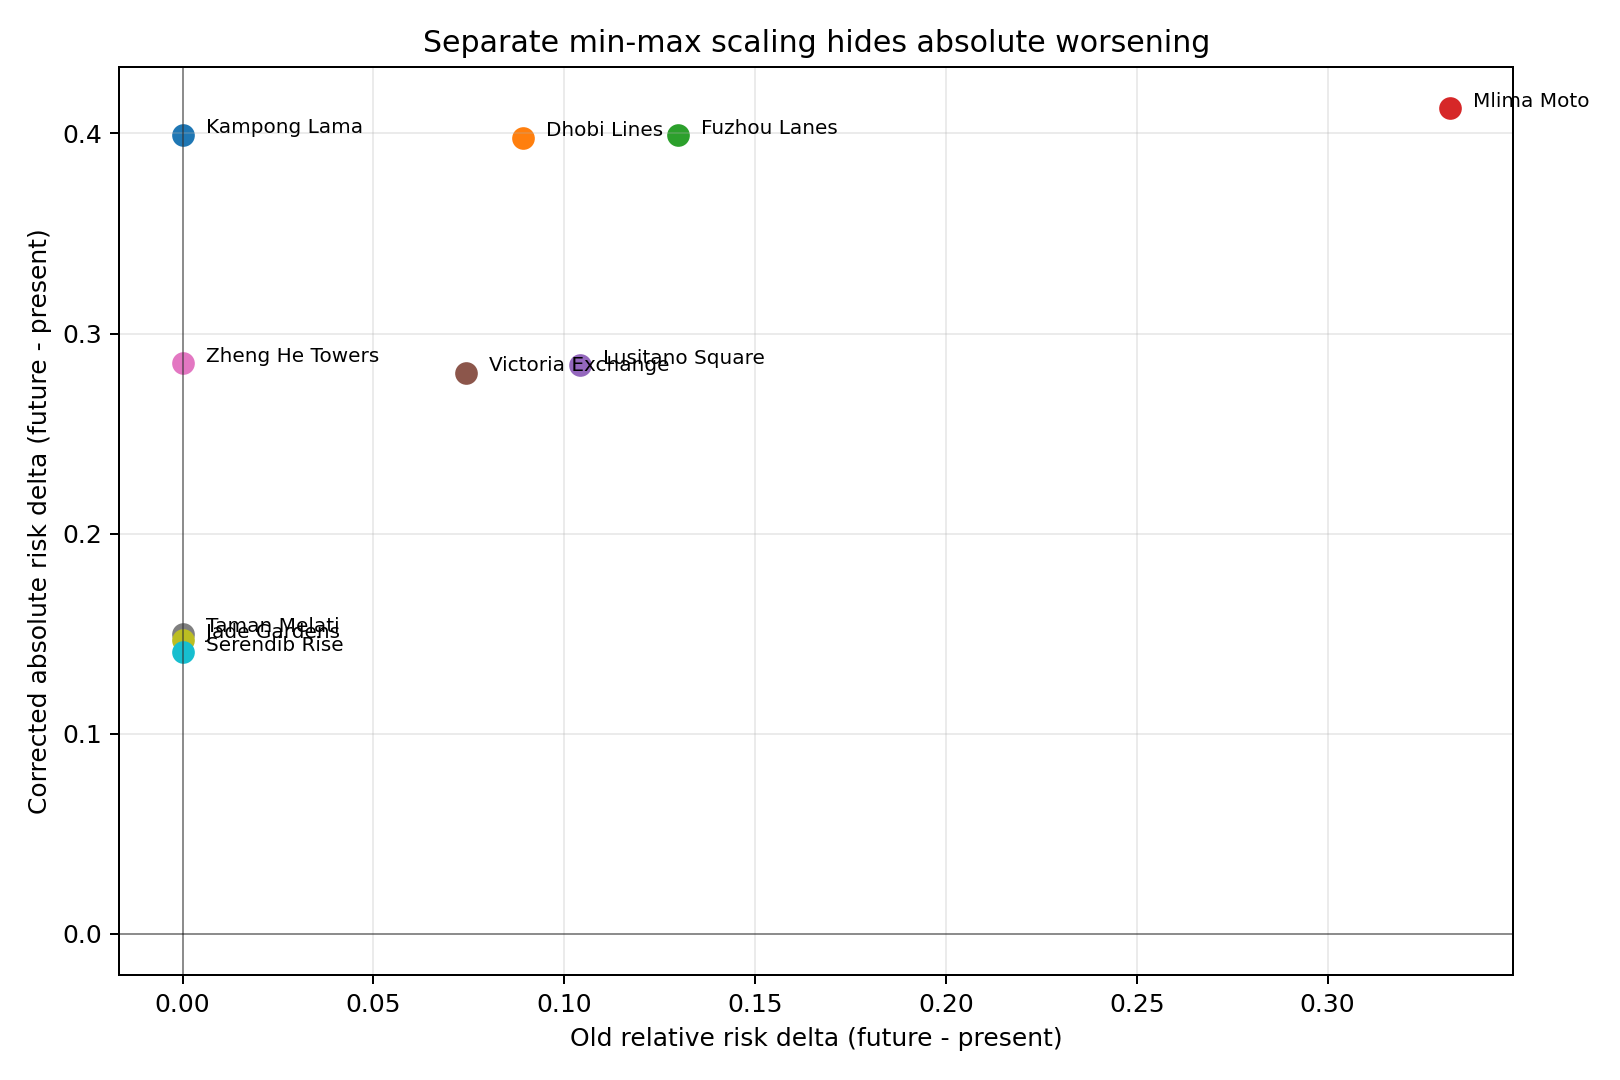
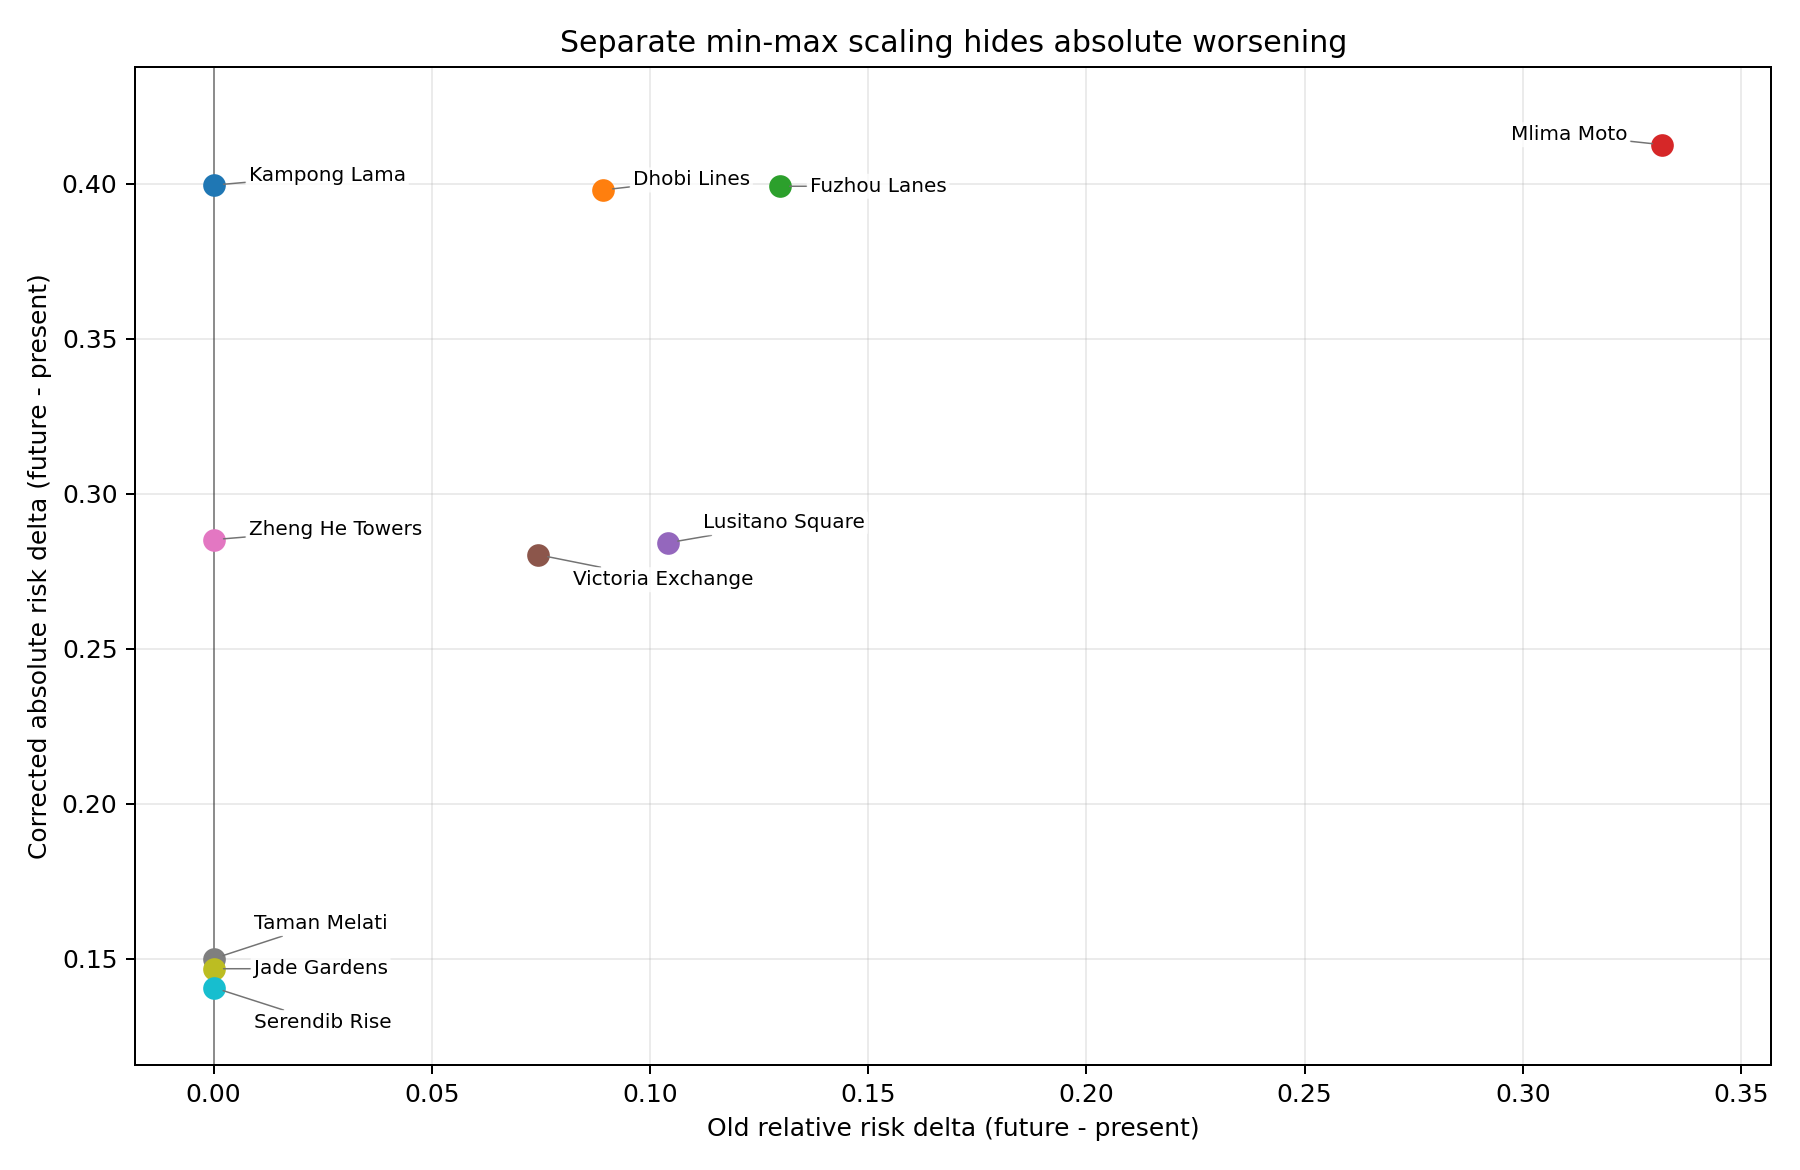
Improve hackathon Pages review story

diff --git a/analysis/uda_city_true_data/generate_corrected_indices.py b/analysis/uda_city_true_data/generate_corrected_indices.py
@@ -223,6 +223,70 @@ def save_barh(ax, labels: list[str], values: list[float], title: str, color: str
     ax.grid(axis="x", alpha=0.25)
 
 
+def plot_scenario_delta(wide: pd.DataFrame) -> None:
+    """Plot scenario deltas with deterministic label offsets for readability."""
+    PLOT_ROOT.mkdir(parents=True, exist_ok=True)
+    label_offsets = {
+        "Kampong Lama": (14, 4),
+        "Dhobi Lines": (12, 4),
+        "Fuzhou Lanes": (12, 0),
+        "Mlima Moto": (-14, 4),
+        "Lusitano Square": (14, 8),
+        "Victoria Exchange": (14, -10),
+        "Zheng He Towers": (14, 4),
+        "Taman Melati": (16, 14),
+        "Jade Gardens": (16, 0),
+        "Serendib Rise": (16, -14),
+    }
+
+    fig, ax = plt.subplots(figsize=(10, 6.5))
+    for _, row in wide.iterrows():
+        x = row["delta_old_risk_index"]
+        y = row["delta_corrected_risk_index"]
+        ax.scatter(x, y, s=65, zorder=3)
+        dx, dy = label_offsets.get(row["name"], (10, 4))
+        ax.annotate(
+            row["name"],
+            xy=(x, y),
+            xytext=(dx, dy),
+            textcoords="offset points",
+            fontsize=8,
+            ha="left" if dx >= 0 else "right",
+            va="center",
+            bbox={
+                "boxstyle": "round,pad=0.15",
+                "facecolor": "white",
+                "edgecolor": "none",
+                "alpha": 0.78,
+            },
+            arrowprops={
+                "arrowstyle": "-",
+                "color": "0.45",
+                "linewidth": 0.6,
+                "shrinkA": 0,
+                "shrinkB": 4,
+            },
+            zorder=4,
+        )
+    ax.axvline(0, color="black", linewidth=0.8, alpha=0.4)
+    ax.axhline(0, color="black", linewidth=0.8, alpha=0.4)
+    ax.set_xlim(
+        wide["delta_old_risk_index"].min() - 0.018,
+        wide["delta_old_risk_index"].max() + 0.025,
+    )
+    ax.set_ylim(
+        wide["delta_corrected_risk_index"].min() - 0.025,
+        wide["delta_corrected_risk_index"].max() + 0.025,
+    )
+    ax.set_xlabel("Old relative risk delta (future - present)")
+    ax.set_ylabel("Corrected absolute risk delta (future - present)")
+    ax.set_title("Separate min-max scaling hides absolute worsening")
+    ax.grid(alpha=0.25)
+    fig.tight_layout()
+    fig.savefig(PLOT_ROOT / "scenario_delta_old_vs_corrected.png", dpi=180)
+    plt.close(fig)
+
+
 def plot_outputs(long_df: pd.DataFrame, wide: pd.DataFrame) -> None:
     PLOT_ROOT.mkdir(parents=True, exist_ok=True)
     ordered = wide.sort_values("corrected_risk_rank_future")["name"].tolist()
@@ -266,24 +330,7 @@ def plot_outputs(long_df: pd.DataFrame, wide: pd.DataFrame) -> None:
     fig.savefig(PLOT_ROOT / "dry_vs_humid_heat_hours.png", dpi=180)
     plt.close(fig)
 
-    fig, ax = plt.subplots(figsize=(9, 6))
-    for _, row in wide.iterrows():
-        ax.scatter(row["delta_old_risk_index"], row["delta_corrected_risk_index"], s=65)
-        ax.text(
-            row["delta_old_risk_index"] + 0.006,
-            row["delta_corrected_risk_index"] + 0.0008,
-            row["name"],
-            fontsize=8,
-        )
-    ax.axvline(0, color="black", linewidth=0.8, alpha=0.4)
-    ax.axhline(0, color="black", linewidth=0.8, alpha=0.4)
-    ax.set_xlabel("Old relative risk delta (future - present)")
-    ax.set_ylabel("Corrected absolute risk delta (future - present)")
-    ax.set_title("Separate min-max scaling hides absolute worsening")
-    ax.grid(alpha=0.25)
-    fig.tight_layout()
-    fig.savefig(PLOT_ROOT / "scenario_delta_old_vs_corrected.png", dpi=180)
-    plt.close(fig)
+    plot_scenario_delta(wide)
 
     exposure = long_df[long_df["scenario"] == "present"][
         ["name", "population_day", "exposure_absolute"]

diff --git a/docs/index.md b/docs/index.md
@@ -6,26 +6,29 @@ alignment problems.
 
 Dataset: [UMEP-dev/uda-city-hackathon](https://github.com/UMEP-dev/uda-city-hackathon)
 
-## What was updated
+## Reviewer answer
 
-- Template notes were refreshed from `UMEP-dev/suews-hackathon-template`.
-- The released UDA-city data pack was added under `data/uda-city-hackathon/`.
-- Present and future SUEWS runs were completed for all 10 neighbourhoods.
-- The supplied reference bridge was run for present and future.
-- A corrected humid-heat risk index was generated with comparison plots.
+**Core question:** Does the corrected UDA-city index give a more faithful
+first-pass humid-heat risk comparison than the supplied reference bridge?
 
-## Verification
+**Short answer:** yes, for the four tested alignment problems. The corrected
+index keeps low exposure nonzero, uses one absolute scale for present and
+future, brings humidity into the hazard through heat-index hours, and reports
+social sensitivity without letting one low pillar erase total risk.
 
-- `suews validate --dry-run --format json data/uda-city-hackathon/uda-city.yml`
-  returned `is_valid: true` and `error_count: 0`.
-- Dataset smoke test passed for 10 neighbourhoods over 2,016 steps.
-- Dataset non-slow tests passed: 8 passed, 1 slow test deselected.
-- Corrected-index generator reran present and future SUEWS scenarios and wrote
-  CSVs plus PNG plots under `analysis/uda_city_true_data/` and
-  `docs/assets/uda_indices/`.
+Read the page as a corrected comparison, not as a final city risk model. The
+results table and four plots show the evidence-supported change; the remaining
+exposure and vulnerability ideas at the end mark the boundary for the next
+design pass.
 
-On this Windows host, Python commands that read the UTF-8 YAML need
-`PYTHONUTF8=1`.
+## At-a-glance evidence
+
+| Claim | Best evidence on this page | Boundary |
+| --- | --- | --- |
+| The corrected index gives a more faithful first-pass humid-heat risk comparison for the four tested alignment problems. | Result table plus Figure 1: suppressed neighbourhoods reappear and corrected absolute risk can be compared across present and future. | This is an index audit, not a final operational city-risk model. |
+| Humidity changes the hazard signal enough to matter. | Figure 2: heat-index hours are much larger than dry-bulb threshold hours; `Kampong Lama` has `414` humid-heat hours versus `42` dry-bulb hours present. | The heat-index threshold is fixed here; no threshold-sensitivity test is claimed. |
+| Absolute scaling exposes future worsening hidden by separate min-max scores. | Result table plus Figure 3: corrected future risk increases for all neighbourhoods, including `Kampong Lama` at `0.169 -> 0.569`. | Future scenario changes climate only, not social conditions. |
+| Low-exposure places should stay visible instead of becoming zero-risk by construction. | Figure 4 and the headline result: `Jade Gardens` changes from reference risk `0` to corrected risk `0.062` present and `0.209` future. | Exposure is daytime population only. |
 
 ## Why the reference index is misaligned
 
@@ -58,6 +61,13 @@ This fixes the four main issues without pretending to be the final answer:
 - present and future scores share the same absolute scale;
 - humidity enters the hazard through heat-index hours.
 
+| Alignment problem in reference bridge | Correction used here | Evidence artifact |
+| --- | --- | --- |
+| Geometric mean turns any zero pillar into total risk `0`. | `social sensitivity = mean(exposure, vulnerability)` avoids zero-killing the index. | Figure 1 and result table |
+| Dry-bulb `T2 > 35 C` misses humid heat. | Humid hazard uses `hours(heat index > 41 C) / analysis hours`. | Figure 2 |
+| Present and future are min-max scaled separately. | Present and future use one absolute corrected-risk scale. | Figure 3 |
+| Lowest daytime population is scaled to exposure `0`. | `exposure = population_day / max(population_day)` keeps low exposure nonzero. | Figure 4 |
+
 ## New result
 
 | Future rank | Neighbourhood | Type | Humid hours present | Humid hours future | Delta humid hours | Corrected risk present | Corrected risk future |
@@ -84,27 +94,66 @@ The headline changes are:
 
 ## Comparison plots
 
+### How to read these plots
+
+Use the figure numbers to connect each plot back to the correction table above.
+
 ![Old relative risk compared with corrected absolute humid-heat risk](assets/uda_indices/old_vs_corrected_risk.png)
+
+*Figure 1. Risk comparison: corrected absolute humid-heat risk keeps
+neighbourhoods visible when the reference bridge suppresses them.*
 
 ![Dry-bulb hazard compared with humid-heat hazard](assets/uda_indices/dry_vs_humid_heat_hours.png)
 
+*Figure 2. Humid-vs-dry hazard: heat-index hours expose the hot-humid burden
+that dry-bulb threshold hours undercount.*
+
 ![Future-minus-present risk change under old and corrected indices](assets/uda_indices/scenario_delta_old_vs_corrected.png)
+
+*Figure 3. Hidden absolute worsening: points at `x = 0` with positive `y` mean
+the old bridge shows no relative change, while the corrected absolute index
+shows future risk increasing.*
 
 ![Reference exposure scaling compared with corrected population divided by maximum](assets/uda_indices/exposure_floor_effect.png)
 
+*Figure 4. Exposure floor effect: population divided by the maximum keeps low
+exposure low but nonzero.*
+
+## Reproducibility
+
+What changed:
+
+- Template notes were refreshed from `UMEP-dev/suews-hackathon-template`.
+- The released UDA-city data pack was added under `data/uda-city-hackathon/`.
+- Present and future SUEWS runs were completed for all 10 neighbourhoods.
+- The supplied reference bridge was run for present and future.
+- A corrected humid-heat risk index was generated with comparison plots.
+
+Verification evidence:
+
+- `suews validate --dry-run --format json data/uda-city-hackathon/uda-city.yml`
+  returned `is_valid: true` and `error_count: 0`.
+- Dataset smoke test passed for 10 neighbourhoods over 2,016 steps.
+- Dataset non-slow tests passed: 8 passed, 1 slow test deselected.
+- Corrected-index generator reran present and future SUEWS scenarios and wrote
+  CSVs plus PNG plots under `analysis/uda_city_true_data/` and
+  `docs/assets/uda_indices/`.
+
+On this Windows host, Python commands that read the UTF-8 YAML need
+`PYTHONUTF8=1`.
+
 ## Ideas not fixed yet
 
-The corrected index only fixes the first four alignment problems. These remain
-as next design ideas:
+The corrected index only fixes the first four alignment problems. These
+next-pass ideas are motivated by the current boundary, not proved by the current
+result.
 
-- Replace daytime population with time-varying exposure: night population,
-  worker schedules, school hours, indoor/outdoor time, and mobility.
-- Enrich vulnerability: housing quality, health status, cooling centres, water
-  access, informal work timing, social support, and medical access.
-- Move below neighbourhood averages so vulnerable subgroups inside lower-risk
-  areas do not disappear.
-- Add future social scenarios instead of changing climate only: population,
-  AC access, deprivation, age structure, outdoor work, and adaptive capacity.
+| Current boundary | Why it matters | Future improvement |
+| --- | --- | --- |
+| Exposure is daytime population only. | Risk can depend on where people are across night, work, school, indoor, outdoor, and travel periods. | Add time-varying exposure for night population, worker schedules, school hours, indoor/outdoor time, and mobility. |
+| Vulnerability uses the five supplied proxies. | Heat vulnerability can depend on conditions beyond the current proxy set. | Test added vulnerability inputs such as housing quality, health status, cooling centres, water access, informal work timing, social support, and medical access. |
+| Results are neighbourhood averages. | Averaging can hide vulnerable subgroups inside lower-risk neighbourhoods. | Add sub-neighbourhood or subgroup views where the data support them. |
+| Future scenario changes climate only. | Social conditions may change alongside climate exposure. | Add future social scenarios for population, AC access, deprivation, age structure, outdoor work, and adaptive capacity. |
 
 ## Files to inspect
 

diff --git a/transcripts/2026-06-25-pages-subagent-review.md b/transcripts/2026-06-25-pages-subagent-review.md
@@ -1,0 +1,46 @@
+# 2026-06-25 Pages subagent review loop
+
+Goal: improve the public GitHub Pages display for the SUEWS Community
+Hackathon practice repo using a builder/reviewer subagent loop.
+
+Method: both builder and reviewer roles used `research-discussion-core` in each
+loop to keep the page centered on the core reviewer question: whether the
+corrected UDA-city index is a more faithful first-pass humid-heat risk
+comparison than the supplied reference bridge, without overclaiming a final
+city-risk model.
+
+Loop summary:
+
+1. Added a top `Reviewer answer` section with the core question, short answer,
+   and claim boundary.
+2. Added a plot-reading bridge so each comparison plot has an evidence role.
+3. Moved setup and verification details below the results under
+   `Reproducibility`.
+4. Added a correction traceability table mapping each reference-bridge issue to
+   the correction and evidence artifact.
+5. Added stable Figure 1-4 labels and visible captions.
+6. Compressed duplicate plot-reading bullets into one bridge sentence.
+7. Regenerated Figure 3 with deterministic label offsets, white label backing,
+   and callout lines.
+8. Clarified the Figure 3 caption: `x = 0` with positive `y` means the old
+   bridge shows no relative change while the corrected absolute index shows
+   future risk increasing.
+9. Reframed `Ideas not fixed yet` as a boundary/next-pass table.
+10. Added an `At-a-glance evidence` table near the top with `Claim`,
+    `Best evidence on this page`, and `Boundary`.
+
+Final reviewer verdict: accept. No blocker remained. Remaining concerns were
+non-blocking polish only: the page is table-heavy on narrow screens, and
+`Files to inspect` still reads like a technical follow-up section, but both are
+acceptable for the submission because the claim, evidence, and boundaries are
+clear.
+
+Verification after the loop:
+
+- `python -m py_compile analysis/uda_city_true_data/generate_corrected_indices.py`
+- Regenerated `docs/assets/uda_indices/scenario_delta_old_vs_corrected.png`
+  from `analysis/uda_city_true_data/corrected_index_comparison.csv`.
+- Checked all four `docs/assets/uda_indices/*.png` files for dimensions and
+  nonblank pixel ranges.
+- `PYTHONUTF8=1 python -m pytest data/uda-city-hackathon/tests -m "not slow"`
+  passed: 8 passed, 1 deselected.